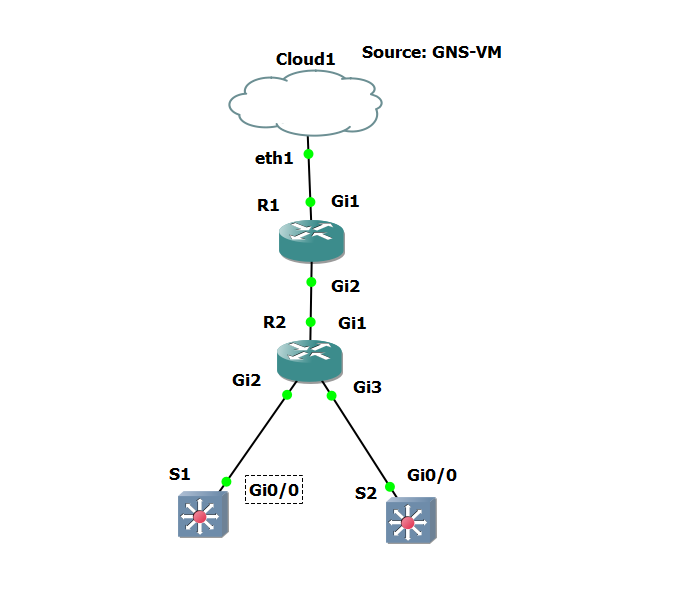
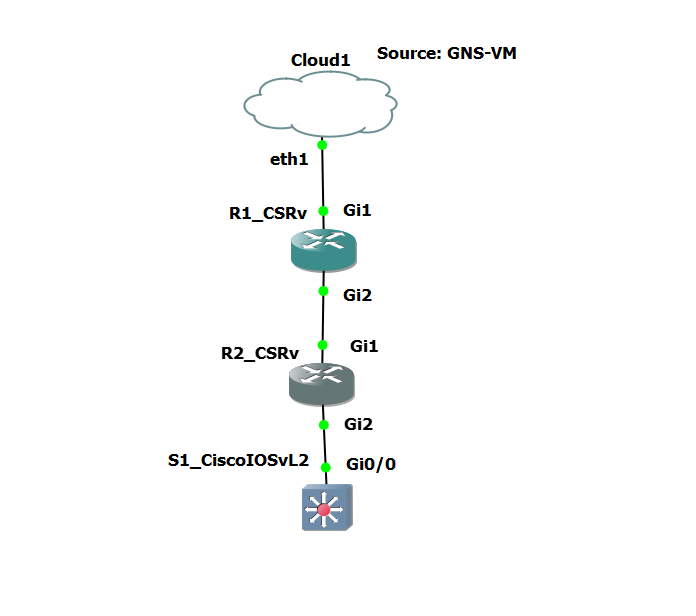
topology updated

diff --git a/README.md b/README.md
@@ -3,7 +3,7 @@
 ### Simple GNS3 Topology
 
 1. 2 CSRv1000 routers running on IOS XE 16
-2. 2 CiscoIOSvL2 Switches running on IOS 15.2
+2. A CiscoIOSvL2 Switch running on IOS 15.2
 
 ![topology](/images/topology.png)
 
